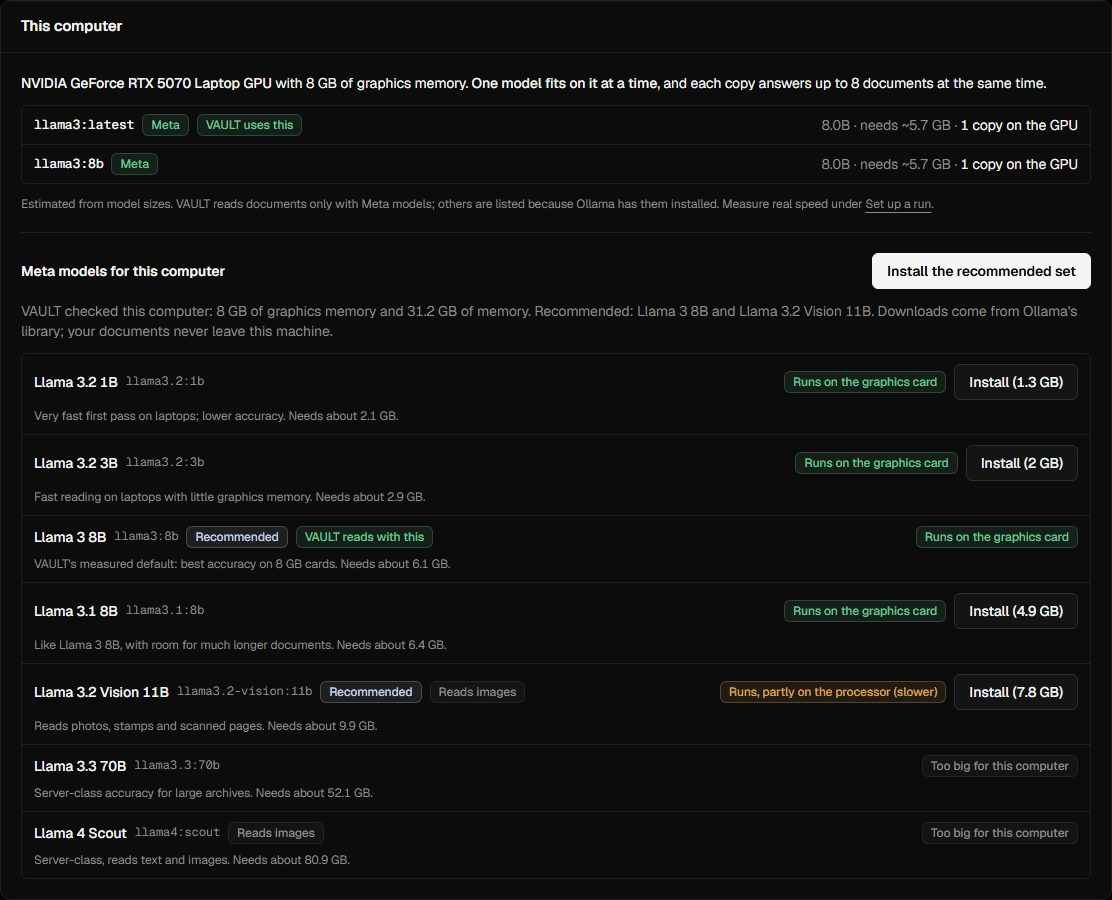
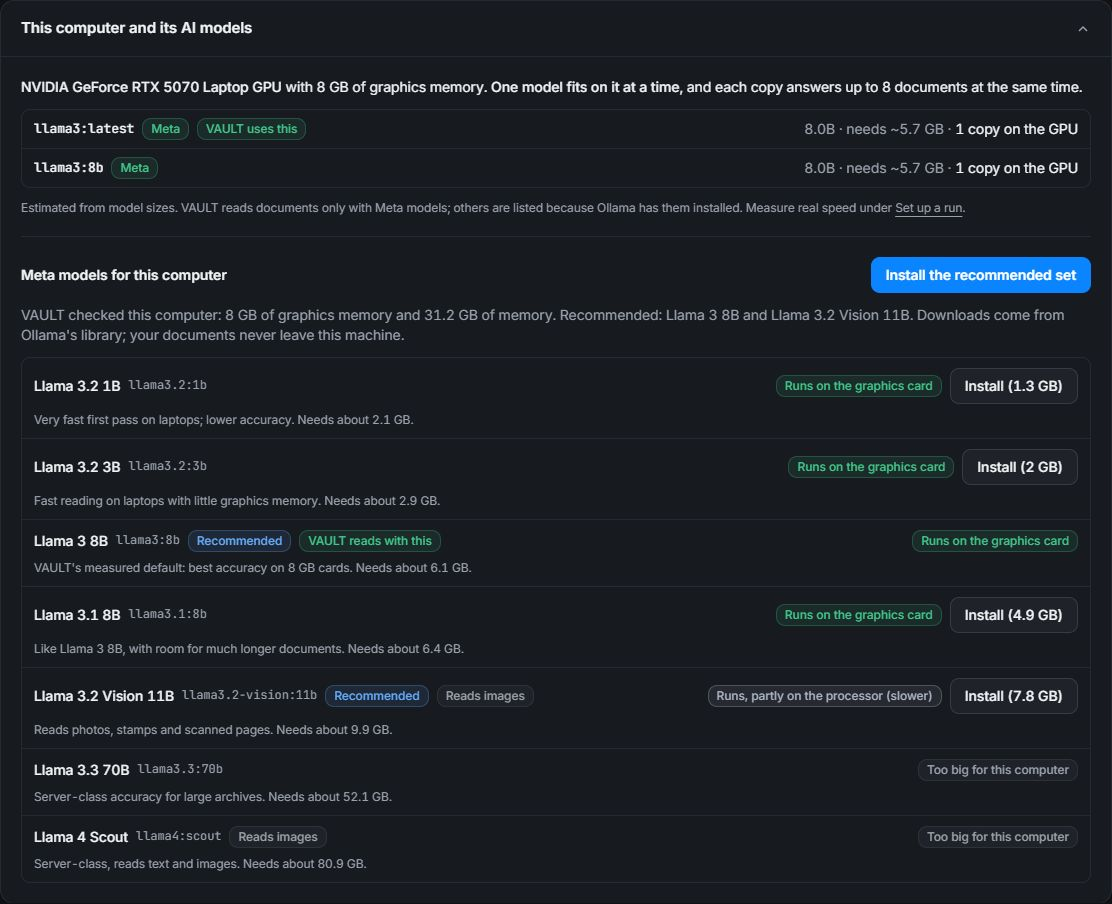
Refresh screenshots and document the portable Windows app [skip ci]
The screenshots still showed the old look. The README now says how to build
the portable app and that it is unsigned and unpublished (F12.12, F10.15).

diff --git a/README.md b/README.md
@@ -167,6 +167,8 @@ You need Python 3.11+ and Node 20+. For the real AI you also need [Ollama](https
 5. **Read them** with one button, and watch the live run board.
 6. **Check the quality** on Training before trusting it, then **teach it** on Brain.
 
+**Windows app without Python or Node:** `packaging/build_windows.ps1` builds a portable folder and zip (about 39 MB) with a guided first-run setup. Unzip it and run `VAULT.exe`. It is not code-signed, so Windows SmartScreen shows a warning the first time. No download is published yet, and so far it has been tested only on the machine that built it. Ollama is still a separate install for the real AI.
+
 **One command:**
 
 ```bash

diff --git a/coordination/PROJECT_STATE.md b/coordination/PROJECT_STATE.md
@@ -52,7 +52,9 @@ The two-minute snapshot. Read this first in a new session. Detail lives in the l
 - **Also merged:**
   - reading only new documents (F05.10);
   - the collection switcher (F10.12);
-  - the desktop window (F12.12);
+  - the desktop window and portable Windows app, built locally and not yet published (F12.12);
+  - the guided first-run setup (F10.14);
+  - the graphite and blue look, and the agent tree in setup (F10.15);
   - the run summary and coordinator chat (F10.13);
   - the 3D brain (F07.10);
   - step-by-step narrowing (F06.7);
